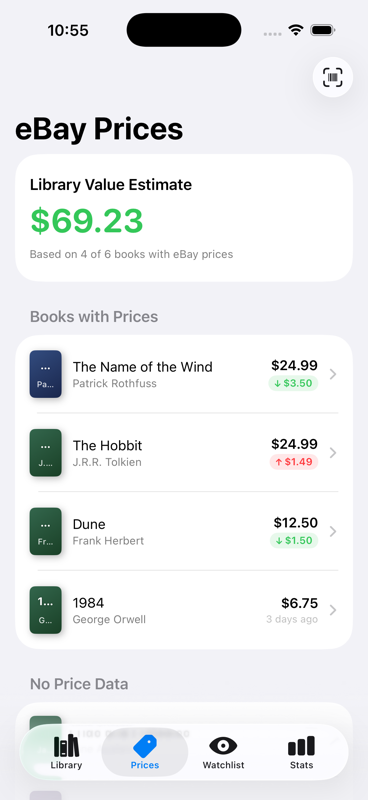
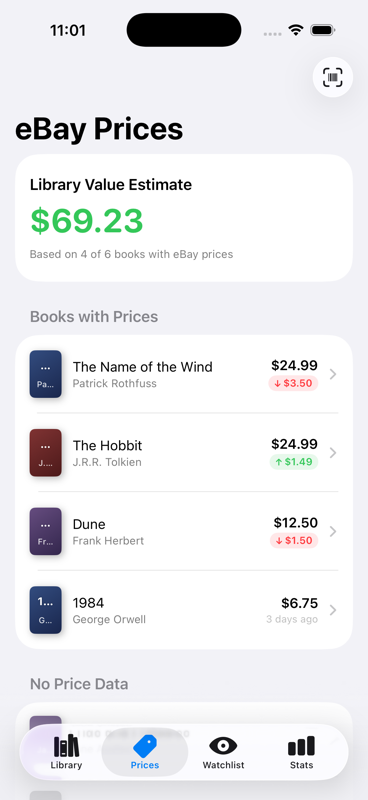
Flip delta badge colors to owner perspective for library books
The watchlist keeps buyer semantics (price drop = green); books you
own now read as collection value (price rise = green). PriceDeltaBadge
takes a .buying/.owning perspective.

diff --git a/Library/Views/Components/PriceDeltaBadge.swift b/Library/Views/Components/PriceDeltaBadge.swift
@@ -1,25 +1,42 @@
 import SwiftUI
 
 /// Small capsule showing recent price movement, e.g. "↓ $3.50".
-/// This is a buyer's view, so a falling price is good news (green)
-/// and a rising price is bad news (red).
+///
+/// Color depends on perspective: on the watchlist you're a buyer, so a
+/// falling price is good news (green); for a book you own, a rising price
+/// means your copy gained value, so up is the green direction.
 struct PriceDeltaBadge: View {
-    let change: Double
+    enum Perspective {
+        /// Watchlist: you want to buy this book, cheaper is better.
+        case buying
+        /// Library: you own this book, appreciation is better.
+        case owning
+    }
 
-    private var isDrop: Bool { change < 0 }
+    let change: Double
+    var perspective: Perspective = .buying
+
+    private var isRise: Bool { change > 0 }
+
+    private var isGoodNews: Bool {
+        switch perspective {
+        case .buying: !isRise
+        case .owning: isRise
+        }
+    }
 
     var body: some View {
         HStack(spacing: 2) {
-            Image(systemName: isDrop ? "arrow.down" : "arrow.up")
+            Image(systemName: isRise ? "arrow.up" : "arrow.down")
                 .font(.system(size: 8, weight: .bold))
             Text(abs(change).formattedAsPrice())
                 .font(.caption2.weight(.semibold))
         }
-        .foregroundStyle(isDrop ? .green : .red)
+        .foregroundStyle(isGoodNews ? .green : .red)
         .padding(.horizontal, 6)
         .padding(.vertical, 2)
-        .background((isDrop ? Color.green : Color.red).opacity(0.12))
+        .background((isGoodNews ? Color.green : Color.red).opacity(0.12))
         .clipShape(Capsule())
-        .accessibilityLabel("Price \(isDrop ? "dropped" : "rose") \(abs(change).formattedAsPrice())")
+        .accessibilityLabel("Price \(isRise ? "rose" : "dropped") \(abs(change).formattedAsPrice())")
     }
 }

diff --git a/Library/Views/Detail/BookDetailView.swift b/Library/Views/Detail/BookDetailView.swift
@@ -241,7 +241,7 @@ struct BookDetailView: View {
                         .foregroundStyle(.secondary)
 
                     if let change = book.recentPriceChange {
-                        PriceDeltaBadge(change: change)
+                        PriceDeltaBadge(change: change, perspective: .owning)
                     }
                 }
 

diff --git a/Library/Views/Library/PriceSummaryView.swift b/Library/Views/Library/PriceSummaryView.swift
@@ -136,7 +136,7 @@ struct PriceSummaryView: View {
                     .font(.subheadline.weight(.semibold))
 
                 if let change = book.recentPriceChange {
-                    PriceDeltaBadge(change: change)
+                    PriceDeltaBadge(change: change, perspective: .owning)
                 } else if let lastUpdated = book.ebayPriceLastUpdated {
                     Text(lastUpdated.formatted(.relative(presentation: .named)))
                         .font(.caption2)